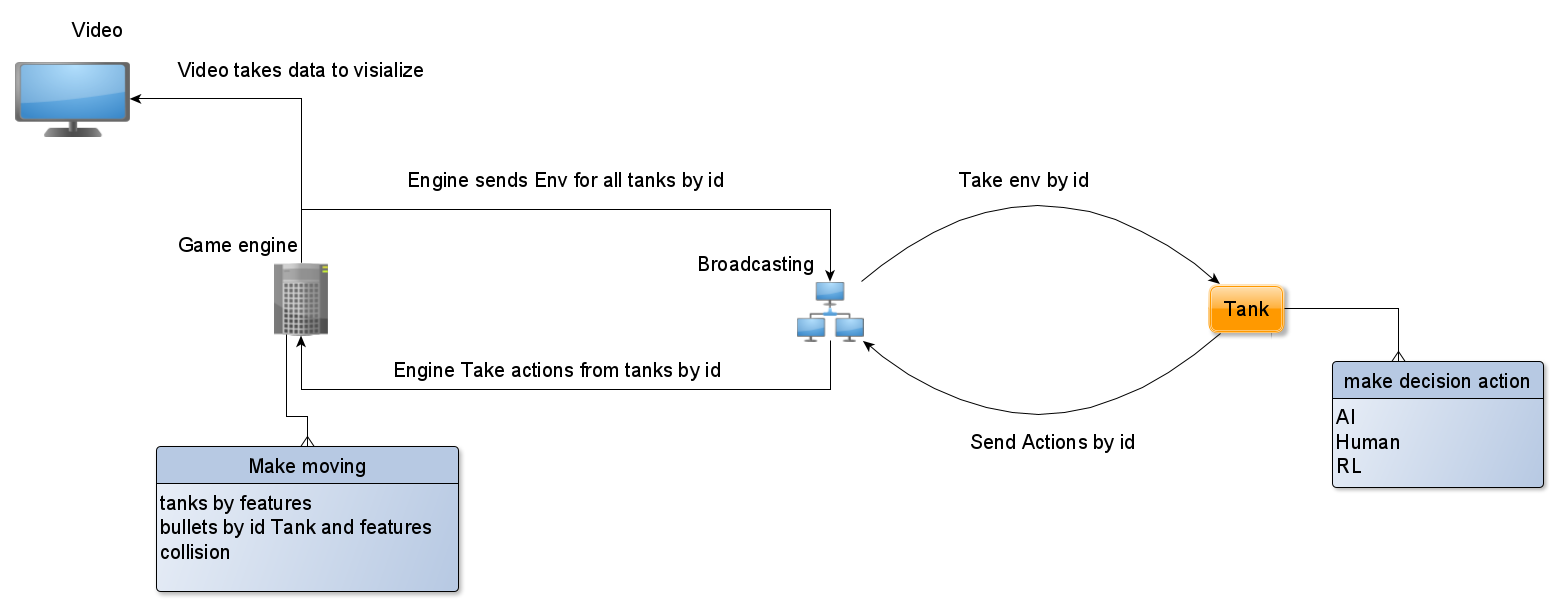
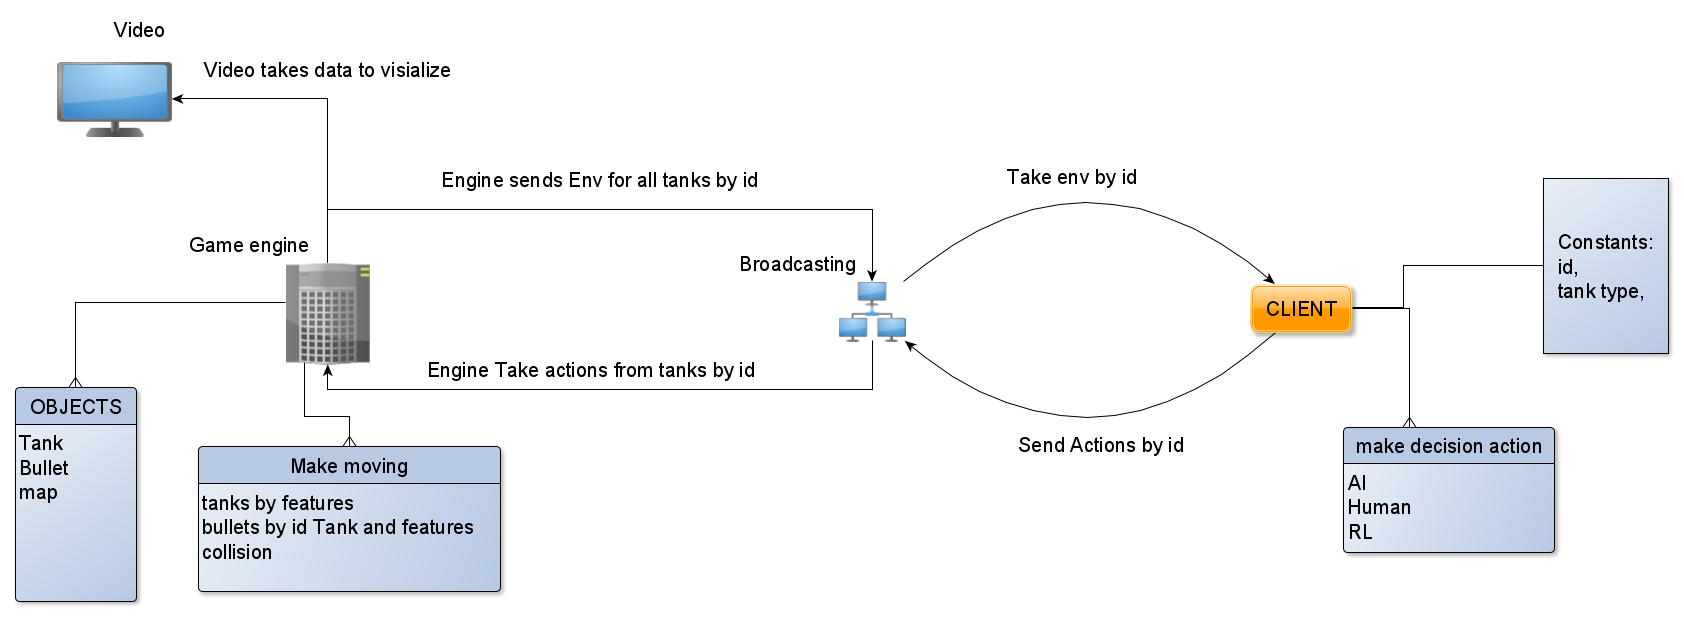
connection, moving object connections

diff --git a/game/game_object.py b/game/game_object.py
@@ -2,22 +2,23 @@ import numpy as np
 from collections import deque
 import random
 from copy import copy
-from tank.tank_object import tank_type
+from tank.tank_object import tank_type, Tank
+from net.broadcasting import net_connection
 
 # game object
 class TankGame():
 
-    def __init__(self, height, width, team_size):
+    def __init__(self):
         self.PIXELS_IN_CELL = 5
-        self.team_size = team_size
-        self.width = width
-        self.height = height
+        self.team_size = 0
+        self.width = 0
+        self.height = 0
         self.map_obs = ['land', 'bush', 'desert', 'forest', 'water', 'swamp', 'wall', 'rock']
         self.map_obs_d = {'land': 0, 'bush': 0.14, 'desert': 0.29, 'forest': 0.43, 'water': 0.57, 'swamp': 0.71, 'wall': 0.86, 'rock': 1}  # Dictionary for obstacles
         self.tank_type_d = {t[0]:t[1] for t in zip(tank_type, np.linspace(0, 1, len(tank_type)))}
-
-        self.map_generate()
-        self.build_collision_map()
+        self.team1 = [] # [Tank]
+        self.team2 = []
+        self.connection = 0
 
 
         # SCORES
@@ -29,6 +30,20 @@ class TankGame():
         self.score_kill_assist  = 1
         self.score_exploring    = 1
         self.friendly_fire      = -1
+
+
+    # start new round with array of connected players [player, ...]
+    # id starts from 101
+    def new_game(self, height, width, team1_tanks, team2_tanks):
+        self.width = width
+        self.height = height
+        self.team1 = [Tank(t.id, t.name, t.tank_type, 0, 0) for t in team1_tanks]
+        self.team2 = [Tank(t.id, t.name, t.tank_type, 0, 0) for t in team2_tanks]
+
+        self.map_generate()
+        self.build_collision_map()
+        num_players = len(self.team1)+len(self.team2)
+        self.connection = net_connection(num_players, False, (num_players, height, width, 4), (num_players, 5))
 
 
     def build_collision_map(self):
@@ -65,6 +80,7 @@ class TankGame():
         del(free_cells)
 
         # [0, 1] 0 - y place on map, 1 - layer on map for team
+        # TODO: rebuild
         team = [[0, 1], [self.height-1, 2]]
         for i in range(2):
             for j in range(self.team_size):

diff --git a/net/broadcasting.py b/net/broadcasting.py
@@ -4,15 +4,16 @@
 import numpy as np
 
 
+
 # env_size = (x, y, z,...)
 # act_size = (x, y, z,...)
-class connection():
-    def __init__(self, team_size, deleting_last_action, env_size, act_size):
-        self.team_size = team_size
+class net_connection():
+    def __init__(self, num_players, deleting_last_action, env_size, act_size):
+        self.num_players = num_players
         self.env_size = env_size
         self.act_size = act_size
-        self.data_from_server = np.zeros((team_size*2,) + env_size)
-        self.data_from_players = np.zeros((team_size*2,) + act_size)
+        self.data_from_server = np.zeros((num_players,) + env_size)
+        self.data_from_players = np.zeros((num_players,) + act_size)
         # after getting action need to zeroing?
         # if disconnected - stop
         # backwards - repeating last action
@@ -35,12 +36,27 @@ class connection():
         data = self.data_from_players
         if self.deleting_last_action:
             # self.data_from_server = np.zeros((self.team_size*2,) + self.env_size)
-            self.data_from_players = np.zeros((self.team_size*2,) + self.act_size)
+            self.data_from_players = np.zeros((self.num_players * 2,) + self.act_size)
 
         return data
 
     def __str__(self):
-        return 'team size: {}, deleting last action? {}\nenv size: {}\naction size: {}'.format(
-            self.team_size, self.deleting_last_action, self.env_size, self.act_size
+        return 'number of players: {}, deleting last action? {}\nenv size: {}\naction size: {}'.format(
+            self.num_players, self.deleting_last_action, self.env_size, self.act_size
         )
 
+
+# Class for connected player waiting for game
+class waiting_room():
+    def __init__(self):
+        self.players = []
+        self.start_id = 101
+
+    def connect(self, name):
+        id = self.start_id + len(self.players)
+        self.players.append([id, name, 'simple'])
+
+        return id
+
+    def change_tank_type(self, id, type):
+        self.players[id - 101][2] = type

diff --git a/player/player_AI_object.py b/player/player_AI_object.py
@@ -1,13 +1,35 @@
+from net.broadcasting import net_connection
 
 
-class player_AI():
-    def __init__(self, id, difficulty=1):
-        self.id = id
+class player_AI(net_connection):
+    def __init__(self, name, difficulty=1):
+        self.id = 0
+        self.name = name
+        self.connection = 0
+        self.env = 0
+        self.tank_type = ''
+
         if difficulty == 1:
-            self.strategy = "function for moving"
+            self.action_function = lambda x: 1, 0.1, -0.1, False, False   # TODO: write action function for AI
         elif difficulty == 2:
-            self.strategy = "another function for moving"
+            self.action_function = "another function for moving"
 
     def __str__(self):
         return self.id
+
+
+    # ID will receive earlier, but now its so
+    def connected_new_game(self, net_connection, id):
+        self.id = id
+        self.connection = net_connection
+
+    def change_tank_type(self, type):
+        self.tank_type = type
+
+    def move(self):
+        self.env = self.connection.get_env_from_server(self.id)
+        return self.action_function()
+
+
+
 

diff --git a/main.py b/main.py
@@ -1,6 +1,6 @@
 import game.game as gg
 import player.player as pl
-from net.broadcasting import connection
+from net.broadcasting import net_connection
 import matplotlib.pyplot as plt
 from tank.tank_object import Tank
 from tank.ammo_object import Ammo
@@ -11,14 +11,7 @@ import numpy as np
 
 tt = Tank(1, 'simple', 5,5)
 
-print(tt)
-aa = Ammo(tt, 1,  0, 0, 180)
-print(aa)
-aa.move()
-aa.move()
-print(aa)
-print(aa.hit())
-
+pl1 = pl.player_AI('vasya')
 
 g = gg.TankGame(6,10,5)
 plt.imshow(g.collision_map, cmap='gray')
@@ -26,7 +19,7 @@ g.PIXELS_IN_CELL = 5
 g.reset()
 g.step()
 g.sing()
-connection = connection(2, True, (50,50,3), (10,))
+connection = net_connection(2, True, (50, 50, 3), (10,))
 # plt.imshow(g.map[:,:, :3])
 plt.show()
 

diff --git a/tank/tank_object.py b/tank/tank_object.py
@@ -6,7 +6,8 @@ t_simple        = [100,   20,       2,              5,             1,          2
 
 
 class Tank():
-    def __init__(self, id, tank_type, x, y):
+    def __init__(self, id, name, tank_type, x, y):
+        self.name = name
         self.X = x
         self.Y = y
         self.width = 1

diff --git a/player/player_RL_object.py b/player/player_RL_object.py
@@ -4,6 +4,7 @@ from numpy import argmax
 
 # Main RL player
 # input neural network model
+# TODO: take parent from AI and write action function for RL
 class player_RL():
     def __init__(self, id, model ):
         self.id = id
